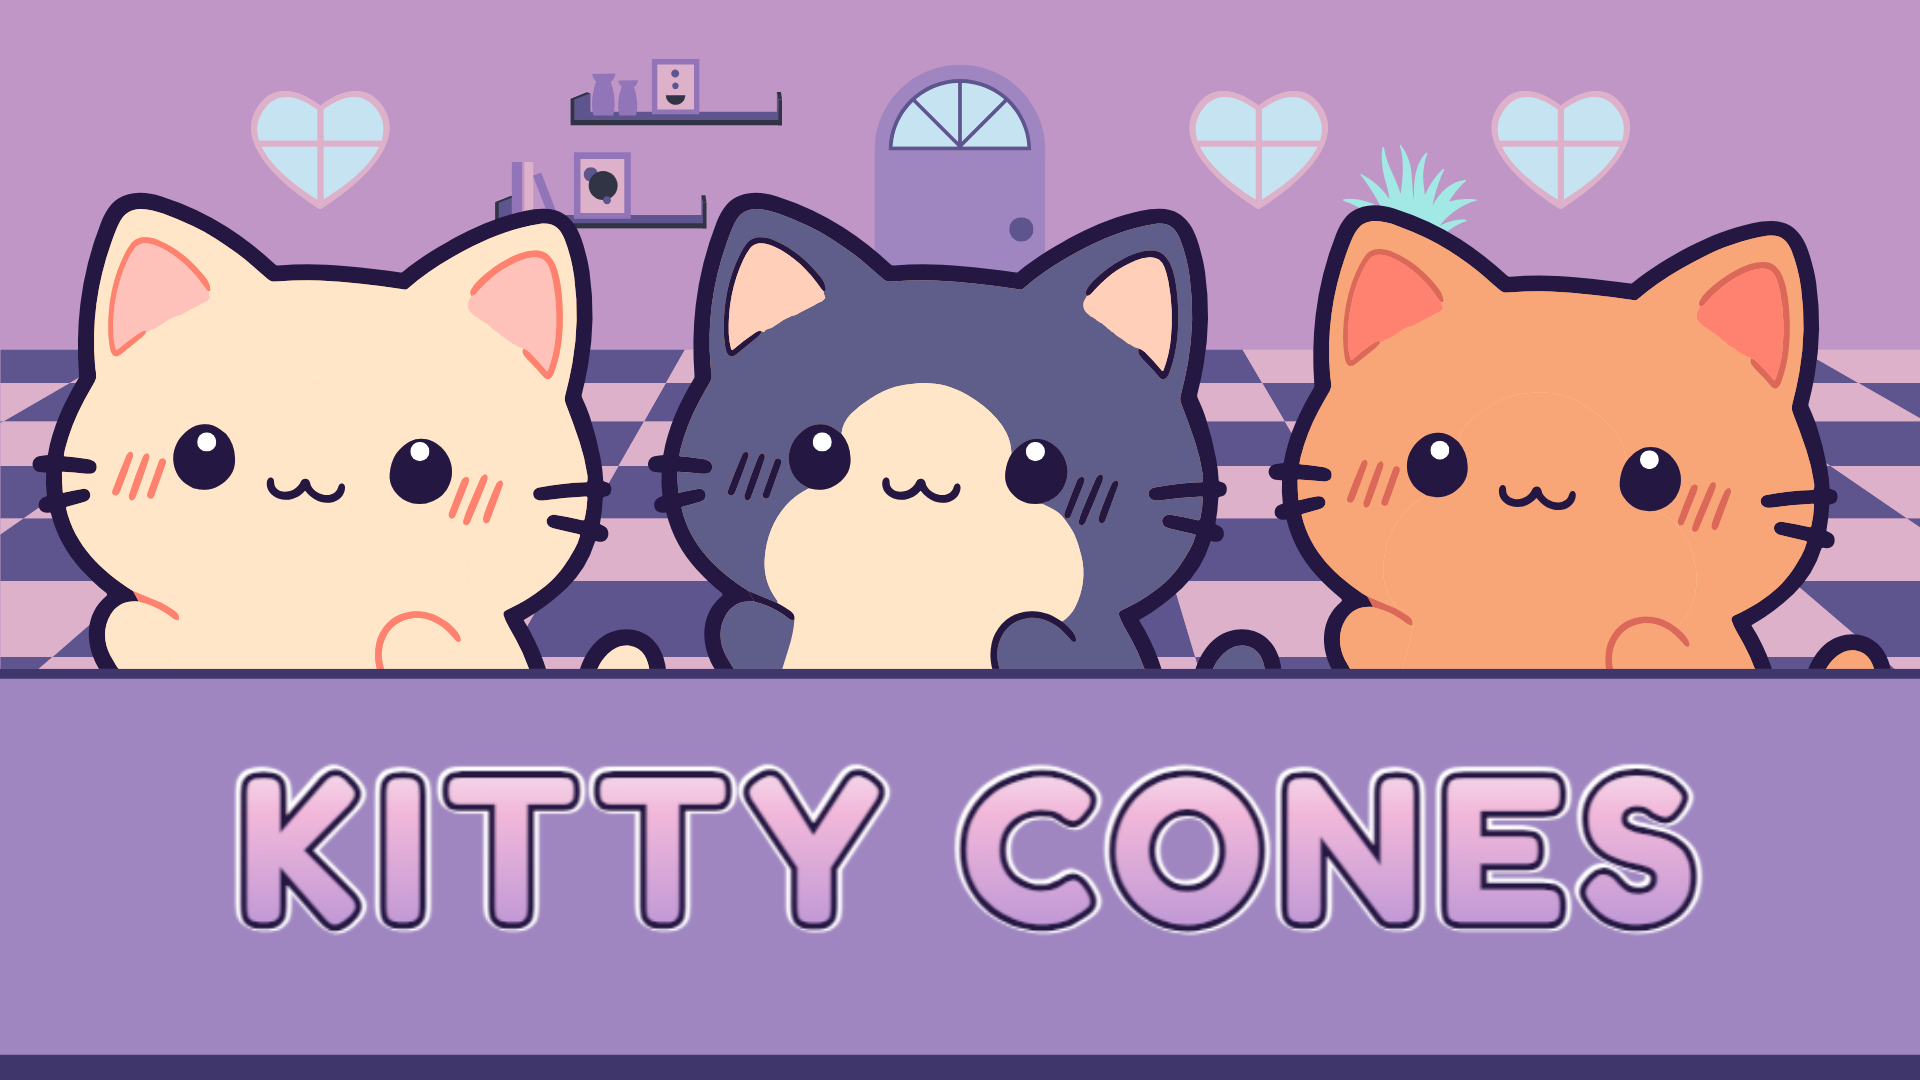
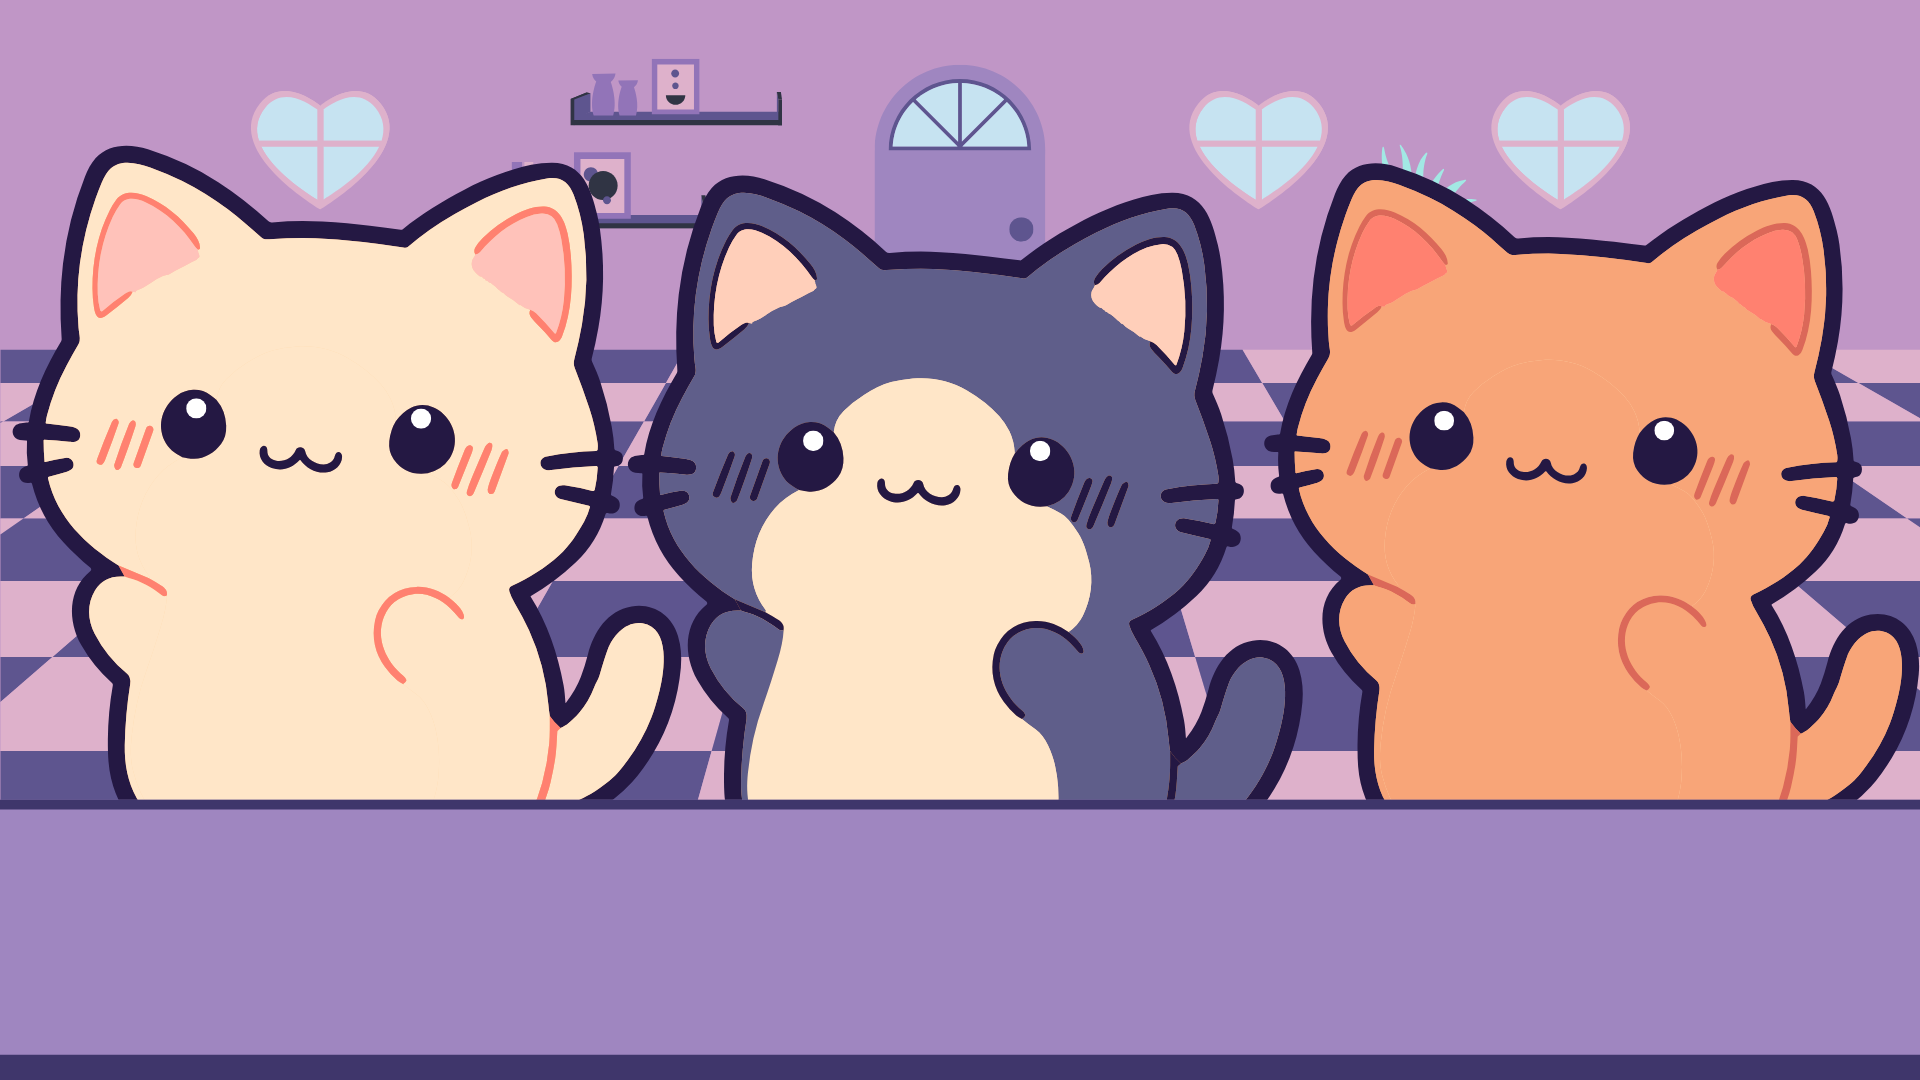
ty josh and riley for the feedback, ppreciate you
-og tags and image added
-more reasonable initial cat lineup at game start
-background fixed for larger screens

diff --git a/src/useGame.jsx b/src/useGame.jsx
@@ -144,8 +144,7 @@ export function useGame() {
         // For Rush Hour mode, set initial offsets for animation
         setCatPositions(isMobile ? [100, -100] : [200, 100, 0, -100, -200]);
       } else {
-        // For normal mode, use centered positions
-        setCatPositions(isMobile ? [0, 0] : [0, 0, 0, 0]);
+        // For normal mode, don't set positions here - handled in initialization
       }
     }
   }, []); // No dependency on isRushHourMode to prevent repositioning on mode change
@@ -156,8 +155,8 @@ export function useGame() {
       const screenWidth = window.innerWidth;
       const sectionWidth = screenWidth / (isMobile ? 2 : 4);
       
-      // Initialize cats with IDs and images
-      const initialCats = customerImages.slice(0, isMobile ? 2 : 4).map((image, index) => ({
+      // Initialize with only 2 cats instead of 4
+      const initialCats = customerImages.slice(0, 2).map((image, index) => ({
         image,
         id: `cat-${Date.now()}-${index}`
       }));
@@ -167,8 +166,8 @@ export function useGame() {
         Math.random() * Math.PI * 2
       );
 
-      // Initialize orders for the initial cats
-      const initialOrders = generateCustomerOrders(cones, scoops, customerImages.slice(0, isMobile ? 2 : 4));
+      // Initialize orders for the initial cats (only 2)
+      const initialOrders = generateCustomerOrders(cones, scoops, customerImages.slice(0, 2));
 
       // Add additional cats off-screen and their orders
       const additionalCats = [];
@@ -184,17 +183,21 @@ export function useGame() {
         additionalOrders.push(generateCustomerOrders(cones, scoops, [catImage])[0]);
       }
 
-      // Calculate initial positions with equal spacing
-      const initialPositions = Array.from({ length: isMobile ? 2 : 4 }, (_, i) => {
-        return (i * sectionWidth) + (sectionWidth/2 - (isMobile ? 60 : 110));
-      });
+      // Use consistent section width for spacing
+      const catSpacing = sectionWidth;
       
-      // Calculate the position where the last visible cat will be
-      const lastVisibleCatPos = initialPositions[initialPositions.length - 1];
+      // Position first cat near the middle of the screen
+      const firstCatPosition = screenWidth * 0.5;
       
-      // Add positions for additional cats off-screen with the same spacing
+      // Position all cats with equal spacing
+      const initialPositions = [
+        firstCatPosition,
+        firstCatPosition + catSpacing
+      ];
+      
+      // Add positions for additional cats with the same consistent spacing
       const additionalPositions = Array.from({ length: additionalCount }, (_, i) => {
-        return lastVisibleCatPos + ((i + 1) * (isMobile ? sectionWidth * 0.8 : sectionWidth));
+        return initialPositions[1] + ((i + 1) * catSpacing);
       });
 
       setCats([...initialCats, ...additionalCats]);

diff --git a/index.html b/index.html
@@ -11,6 +11,8 @@
     <meta property="og:title" content="Kitty Cones" />
     <meta property="og:description" content="A cute yet chaotic ice cream serving simulator" />
     <meta property="og:image" content="/assets/kitty-cones-og-image.png" />
+    <meta property="og:image:width" content="1200" />
+    <meta property="og:image:height" content="630" />
     <meta property="og:url" content="https://kitty-cones.pages.dev/" />
     <meta property="og:type" content="website" />
     

diff --git a/src/App.css b/src/App.css
@@ -195,11 +195,13 @@ body {
 
 .game-background {
   position: fixed;
+  width: 100%;
   height: auto;
   top: 0;
   left: 0;
   z-index: 1;
   background-color: #DEB1CB !important;
+  min-width: 100vw;
 }
 
 h1 {
@@ -247,6 +249,7 @@ h2 {
   left: 0;
   z-index: 1;
   background-color: #DEB1CB !important;
+  width: 100%;
 }
 
 .home-title {
